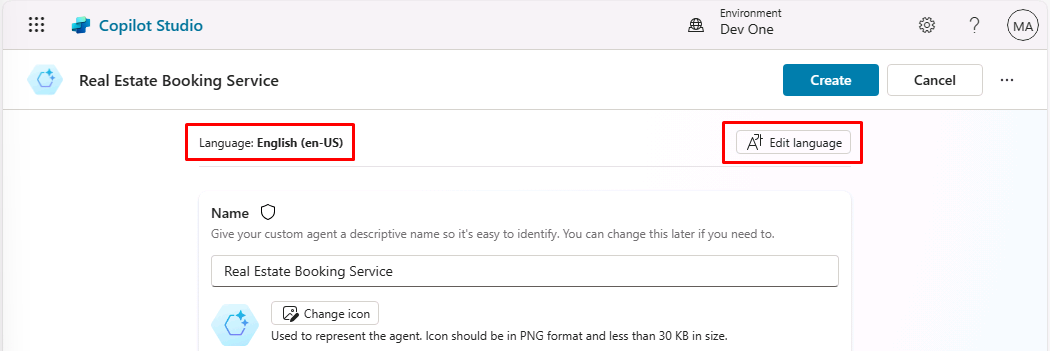
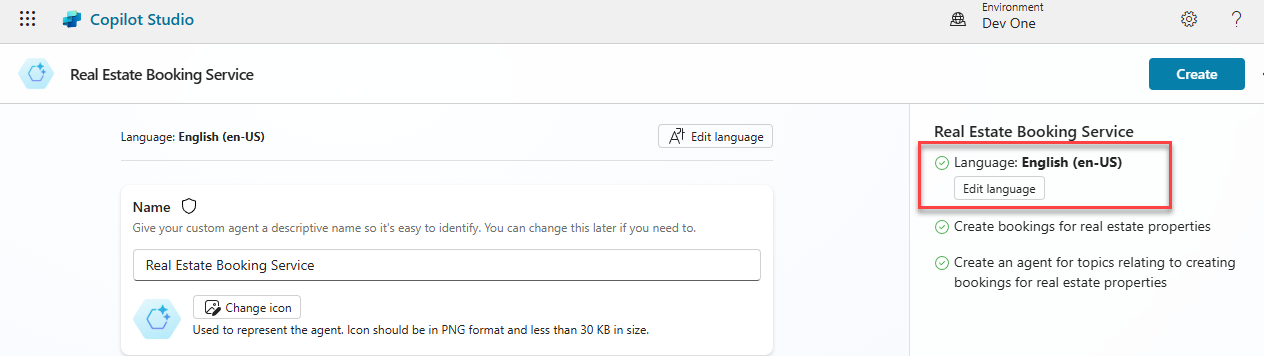
Disable generative orchestration
Generative orchestration is now on by default and this causes issues with the steps in the next set of labs
Screenshots updated

diff --git a/Instructions/Labs/03-create-copilot.md b/Instructions/Labs/03-create-copilot.md
@@ -63,7 +63,7 @@ In this exercise, you will access the Microsoft Copilot Studio portal, the Devel
 
 1. Select **Bookings** under **Solution**.
 
-1. Enter `labcopilot` for **Schema Name**.
+1. Enter `labagent` for **Schema Name**.
 
     ![Advanced settings in Copilot Studio portal.](../media/copilot-studio-advanced-settings.png)
 
@@ -79,13 +79,19 @@ Leave this window open.
 
 In this exercise, you will access the Microsoft Copilot Studio portal and add knowledge that the agent will use to answer questions by using Generative AI.
 
-### Task 2.1 – Enable Generative AI answers
+### Task 2.1 - Disable generative orchestration
+
+1. In the **Overview** tab, ensure that **Use generative AI to determine how best to respond to users and events.** is set to **Disabled** within the **Details** section.
+
+    ![Generative orchestration disabled](../media/settings-generative-ai-1.png)
+
+### Task 2.2 – Enable Generative AI answers
 
 1. In the **Overview** tab, ensure that **Allow the AI to use its own general knowledge** is set to **Enabled** within the **Knowledge** section.
 
     ![Knowledge enabled in Copilot Studio portal.](../media/knowledge-enabled.png)
 
-### Task 2.2 – Add a knowledge source
+### Task 2.3 – Add a knowledge source
 
 1. Select the **Knowledge** tab.
 
